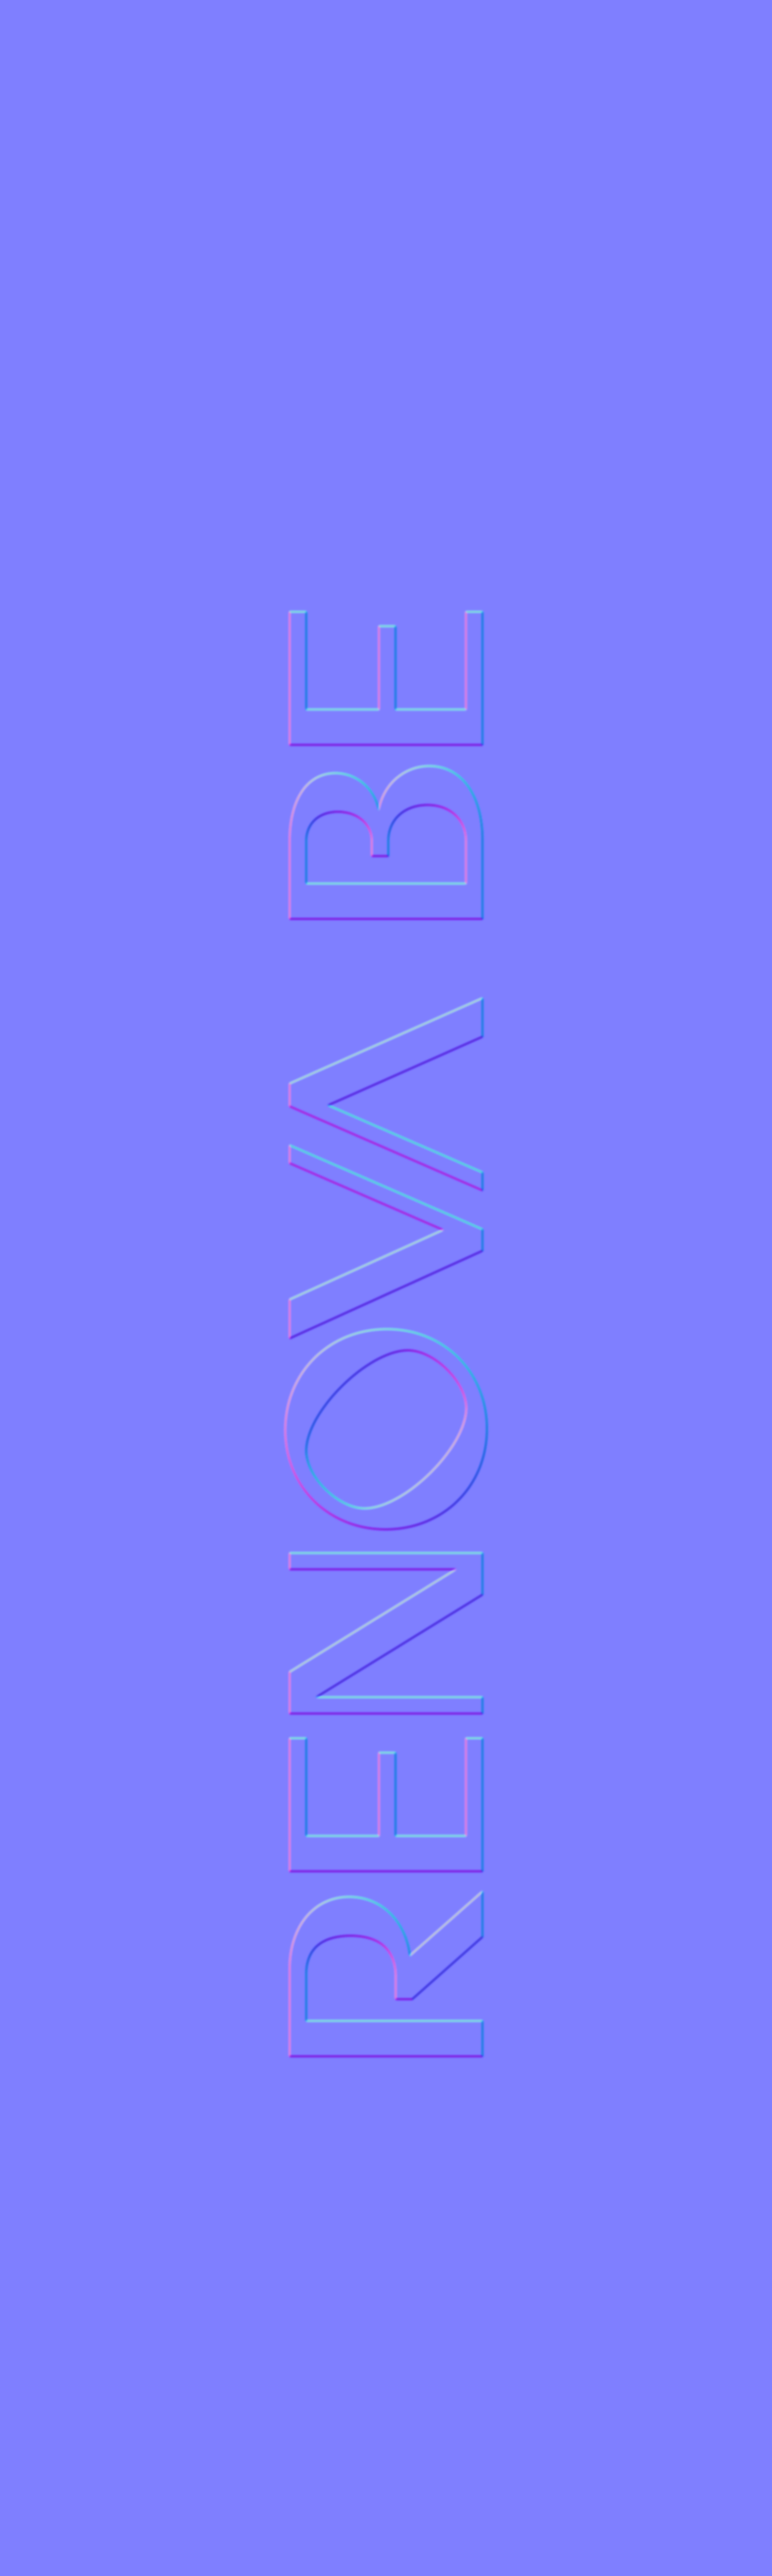
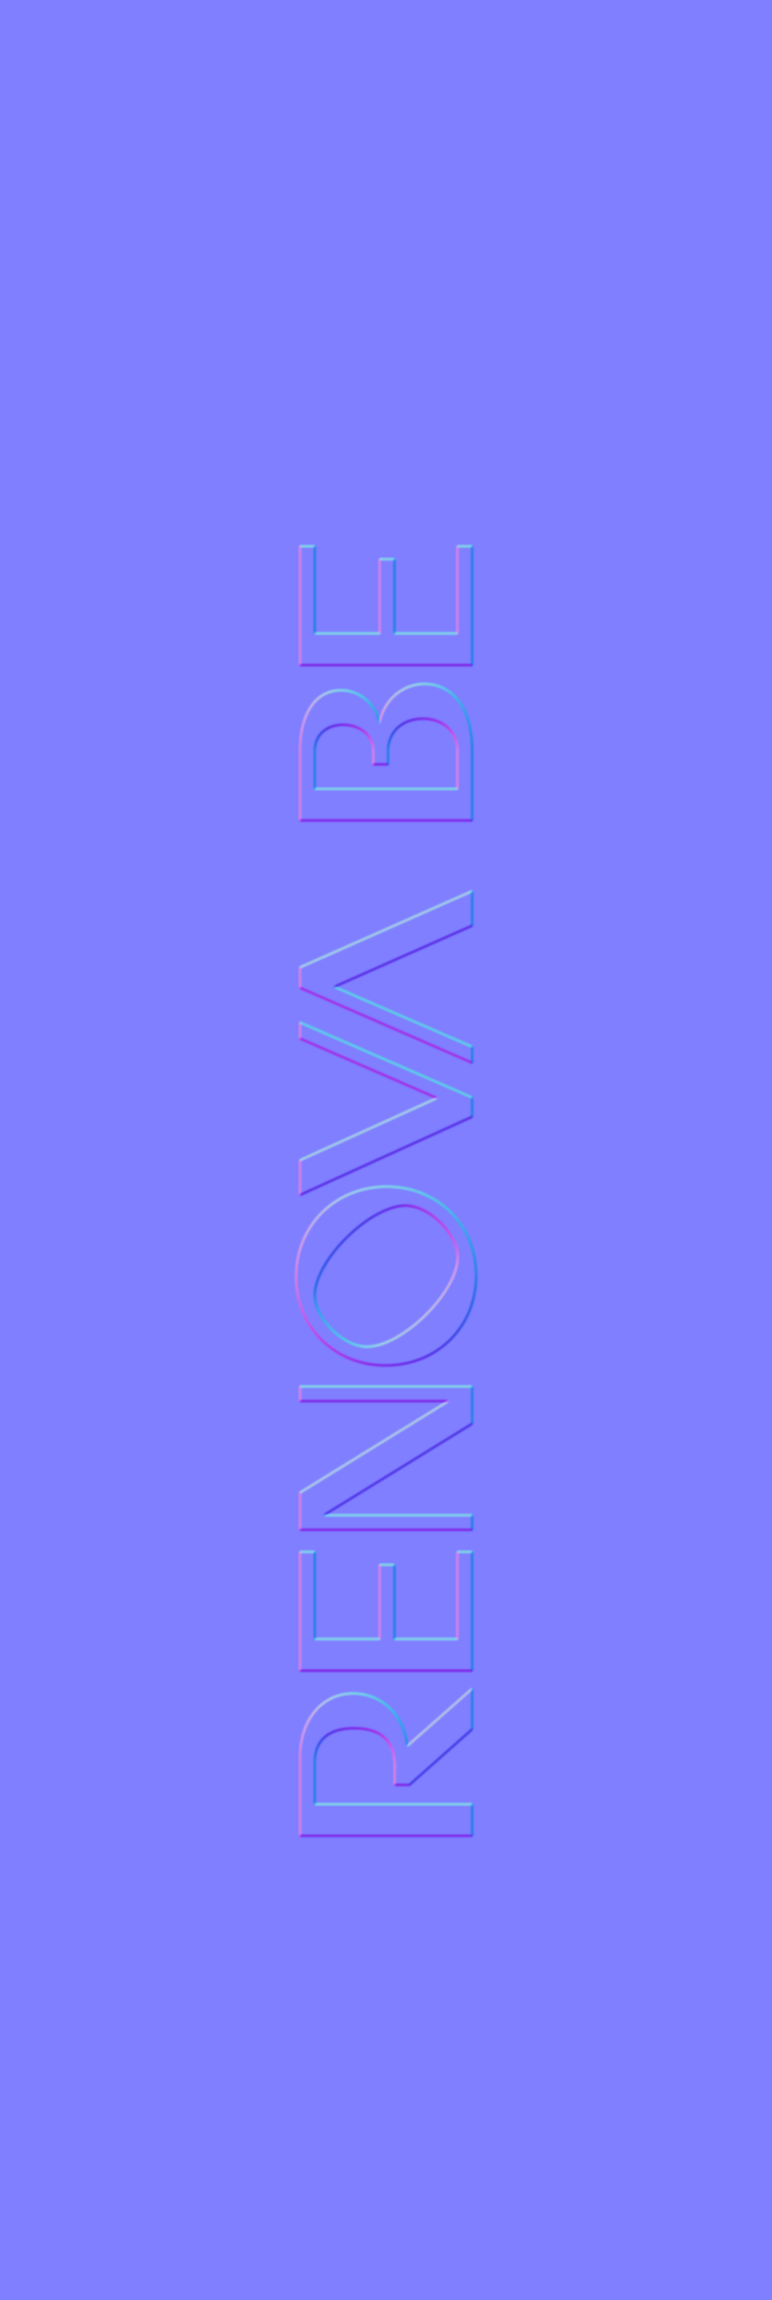
Cartucho de 125 mm, face de ativos limpa e Ayuthaya de verdade
A caixa passou de 140 para 125 mm de altura. A faca foi refeita por trechos
(tampa e abas intactas, so a faixa central encolhe) e a arte foi reposicionada
proporcionalmente, sem escalar texto.

A face de ativos perdeu os tres icones e virou uma coluna unica e junta, na
mesma faixa vertical do bloco da frente. Entrou o descritivo SERUM FACIAL COM
PEPTIDEOS DE COBRE acima do volume, nas duas pecas.

A Ayuthaya, fonte das pills e do volume, nao estava instalada: o que aparecia
era substituicao do Illustrator. Ela foi instalada a partir do arquivo da
marca (que vem como .ttf mas e WOFF2) e o texto foi reencaixado com as
metricas reais.

diff --git a/visualizador.js b/visualizador.js
@@ -5,7 +5,7 @@
 // Eles precisam de tres retratos da cena por quadro, feitos em ordem (ver frame()).
 //
 // O que muda em relacao ao publicado:
-//   - o cartucho e o novo, 42 x 42 x 140, no lugar da caixa antiga de duas pecas
+//   - o cartucho e o novo, 42 x 42 x 125, no lugar da caixa antiga de duas pecas
 //   - o rotulo e o novo, 85 x 40: 77,3% da volta (sobra vidro para ver o liquido) e
 //     cantos arredondados de 3 mm, recortados pelo alfa da faca
 //   - verniz e relevo das DUAS pecas saem das mascaras dos pacotes de impressao:
@@ -338,11 +338,11 @@ function olha(alvoX, alvoY, d, px, py, pz) {
 // a lente e de 20 graus: a distancia sai da altura da peca, senao corta em cima e embaixo
 const VISTAS = {
   conjunto: () => { cartucho.visible = true; sombra.atualiza();
-                    olha(-.034, .058, Math.max(.60, .32 / camera.aspect), .10, .090, .99); },
+                    olha(-.034, .054, Math.max(.56, .30 / camera.aspect), .10, .082, .99); },
   frasco:   () => { cartucho.visible = false; sombra.atualiza();
                     olha(0, .050, Math.max(.32, .15 / camera.aspect), 0, .058, 1); },
   cartucho: () => { cartucho.visible = true; sombra.atualiza();
-                    olha(-.0675, .070, Math.max(.66, .34 / camera.aspect), -.16, .105, .96); },
+                    olha(-.0675, .063, Math.max(.60, .31 / camera.aspect), -.16, .095, .96); },
   // verniz e relevo so se leem com luz rasante e de perto: o botao ja acende a luz
   acabamentos: () => { cartucho.visible = true; sombra.atualiza(); luzDeAcabamento(true);
                        olha(-.014, .034, Math.max(.33, .17 / camera.aspect), .10, .040, .99); }

diff --git a/index.html b/index.html
@@ -36,7 +36,7 @@ nav button{border:0;font-size:12px;padding:11px 16px}
 <header><div class="brand">RENOVA BE</div><div class="eyebrow">Estúdio de embalagem</div></header>
 <aside>
   <h1>GHK-Cu</h1>
-  <p>Cartucho 42 × 42 × 140 mm<br>Rótulo 85 × 40 mm, faixa à esquerda<br>Verniz e relevo das máscaras de impressão</p>
+  <p>Cartucho 42 × 42 × 125 mm<br>Rótulo 85 × 40 mm, faixa à esquerda<br>Verniz e relevo das máscaras de impressão</p>
   <label for="exposure">Intensidade da luz</label>
   <input id="exposure" type="range" min="0.65" max="1.45" step=".01" value="1">
   <div class="actions"><button id="rasante" aria-pressed="false">Luz rasante · acabamentos</button><button id="rotate" aria-pressed="false">Girar 360°</button><button id="save" class="primary">Salvar PNG · 2400 px</button></div>

diff --git a/README.md b/README.md
@@ -3,7 +3,7 @@
 Visualizador do frasco e do cartucho, com os acabamentos aplicados a partir das
 máscaras dos pacotes de impressão.
 
-- Cartucho 42 × 42 × 140 mm, frasco 100 mm: as duas peças na proporção real
+- Cartucho 42 × 42 × 125 mm, frasco 100 mm: as duas peças na proporção real
 - Rótulo do frasco 85 × 40 mm, faixa à esquerda, 77% da volta
 - Verniz brilhante só nos textos, relevo seco e relevo para dentro sem tinta
 - Botão "Luz rasante" para conferir os acabamentos
